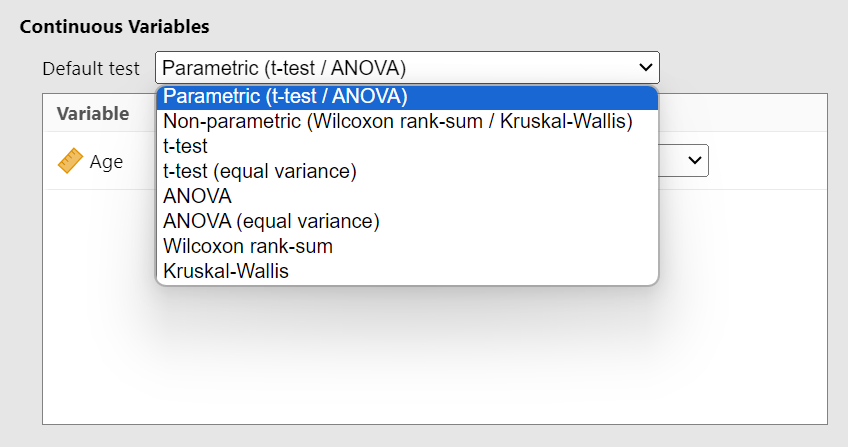
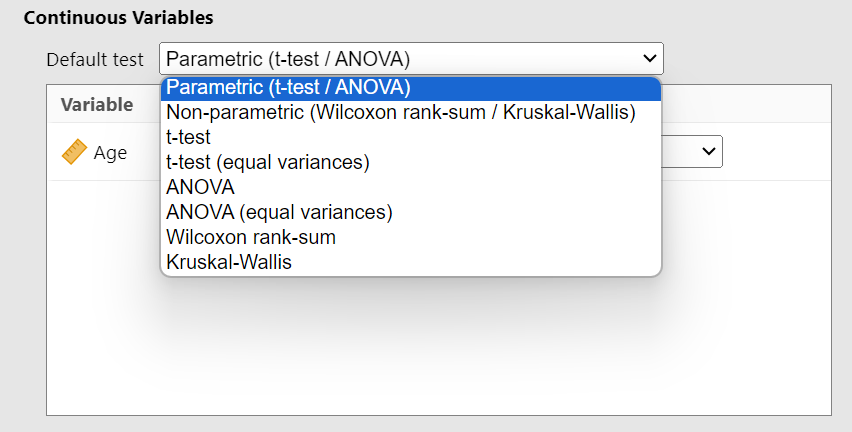
fix: correct pluralization of 'variances' in statistical tests
- Update 'equal variance' to 'equal variances' for t-test and ANOVA
  options in tblcontinuous.a.yaml and tblsummary.a.yaml.
- Correct the corresponding terminology in the user guide documentation.
- Update documentation screenshots to reflect the new UI terminology.

Changed region(s): [[0.0, 0.0301, 0.9811, 0.963], [0.7665, 0.3009, 0.8585, 0.3912]]

diff --git a/docs/user-guide.md b/docs/user-guide.md
@@ -92,7 +92,7 @@ The module automatically selects appropriate statistical tests based on your dat
   ![Screenshot showing the default test dropdown for continuous variables with parametric and non-parametric options](assets/default-test-continuous.png){ loading=lazy width="500" }
 </figure>
 
-* **Parametric (Default):** Uses the independent t-test (not assuming equal variance) for 2 groups, or one-way ANOVA (not assuming equal variance) for >2 groups.
+* **Parametric (Default):** Uses the independent t-test (not assuming equal variances) for 2 groups, or one-way ANOVA (not assuming equal variances) for >2 groups.
 * **Non-parametric:** Uses the Wilcoxon rank-sum test for 2 groups, or Kruskal-Wallis rank-sum test for >2 groups.
 
 !!! info "Grouping Variable in the Continuous Table"